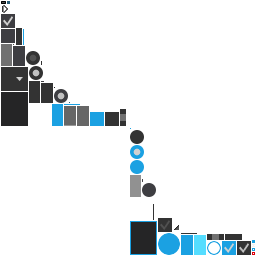
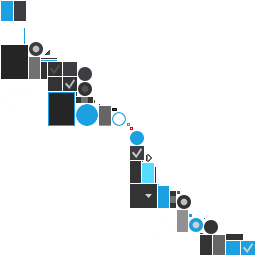
Added VisImageButton

Changed region(s): [[0.0, 0.0, 1.0, 1.0]]

diff --git a/UI/src/pl/kotcrab/vis/ui/widget/VisImageButton.java b/UI/src/pl/kotcrab/vis/ui/widget/VisImageButton.java
@@ -1,0 +1,154 @@
+/*******************************************************************************
+ * Copyright 2014 Pawel Pastuszak
+ *
+ * Licensed under the Apache License, Version 2.0 (the "License");
+ * you may not use this file except in compliance with the License.
+ * You may obtain a copy of the License at
+ *
+ * http://www.apache.org/licenses/LICENSE-2.0
+ *
+ * Unless required by applicable law or agreed to in writing, software
+ * distributed under the License is distributed on an "AS IS" BASIS,
+ * WITHOUT WARRANTIES OR CONDITIONS OF ANY KIND, either express or implied.
+ * See the License for the specific language governing permissions and
+ * limitations under the License.
+ ******************************************************************************/
+
+package pl.kotcrab.vis.ui.widget;
+
+import pl.kotcrab.vis.ui.FocusManager;
+import pl.kotcrab.vis.ui.Focusable;
+import pl.kotcrab.vis.ui.VisUI;
+
+import com.badlogic.gdx.graphics.g2d.Batch;
+import com.badlogic.gdx.scenes.scene2d.InputEvent;
+import com.badlogic.gdx.scenes.scene2d.InputListener;
+import com.badlogic.gdx.scenes.scene2d.ui.Button;
+import com.badlogic.gdx.scenes.scene2d.ui.Cell;
+import com.badlogic.gdx.scenes.scene2d.ui.Image;
+import com.badlogic.gdx.scenes.scene2d.utils.Drawable;
+import com.badlogic.gdx.utils.Scaling;
+
+public class VisImageButton extends Button implements Focusable {
+	private final Image image;
+
+	private VisImageButtonStyle style;
+
+	private boolean drawBorder;
+
+	public VisImageButton (Drawable imageUp) {
+		this(imageUp, null, null);
+	}
+
+	public VisImageButton (Drawable imageUp, Drawable imageDown) {
+		this(imageUp, imageDown, null);
+	}
+
+	public VisImageButton (Drawable imageUp, Drawable imageDown, Drawable imageChecked) {
+		setStyle(VisUI.skin.get(VisImageButtonStyle.class));
+		style.imageUp = imageUp;
+		style.imageDown = imageDown;
+		style.imageChecked = imageChecked;
+
+		image = new Image();
+		image.setScaling(Scaling.fit);
+		add(image);
+		setSize(getPrefWidth(), getPrefHeight());
+
+		addListener(new InputListener() {
+			@Override
+			public boolean touchDown (InputEvent event, float x, float y, int pointer, int button) {
+				if (isDisabled() == false) FocusManager.getFocus(VisImageButton.this);
+				return false;
+			}
+		});
+	}
+
+	@Override
+	public void setStyle (ButtonStyle style) {
+		if (!(style instanceof VisImageButtonStyle)) throw new IllegalArgumentException("style must be an ImageButtonStyle.");
+		super.setStyle(style);
+		this.style = (VisImageButtonStyle)style;
+		if (image != null) updateImage();
+	}
+
+	@Override
+	public VisImageButtonStyle getStyle () {
+		return style;
+	}
+
+	private void updateImage () {
+		Drawable drawable = null;
+		if (isDisabled() && style.imageDisabled != null)
+			drawable = style.imageDisabled;
+		else if (isPressed() && style.imageDown != null)
+			drawable = style.imageDown;
+		else if (isChecked() && style.imageChecked != null)
+			drawable = (style.imageCheckedOver != null && isOver()) ? style.imageCheckedOver : style.imageChecked;
+		else if (isOver() && style.imageOver != null)
+			drawable = style.imageOver;
+		else if (style.imageUp != null) //
+			drawable = style.imageUp;
+		image.setDrawable(drawable);
+	}
+
+	@Override
+	public void draw (Batch batch, float parentAlpha) {
+		updateImage();
+		super.draw(batch, parentAlpha);
+		if (drawBorder) style.focusBorder.draw(batch, getX(), getY(), getWidth(), getHeight());
+	}
+
+	public Image getImage () {
+		return image;
+	}
+
+	public Cell<?> getImageCell () {
+		return getCell(image);
+	}
+
+	/** The style for an image button, see {@link ImageButton}.
+	 * @author Nathan Sweet */
+	static public class VisImageButtonStyle extends ButtonStyle {
+		/** Optional. */
+		public Drawable imageUp, imageDown, imageOver, imageChecked, imageCheckedOver, imageDisabled;
+		public Drawable focusBorder;
+
+		public VisImageButtonStyle () {
+		}
+
+		public VisImageButtonStyle (Drawable up, Drawable down, Drawable checked, Drawable imageUp, Drawable imageDown,
+			Drawable imageChecked) {
+			super(up, down, checked);
+			this.imageUp = imageUp;
+			this.imageDown = imageDown;
+			this.imageChecked = imageChecked;
+		}
+
+		public VisImageButtonStyle (VisImageButtonStyle style) {
+			super(style);
+			this.imageUp = style.imageUp;
+			this.imageDown = style.imageDown;
+			this.imageOver = style.imageOver;
+			this.imageChecked = style.imageChecked;
+			this.imageCheckedOver = style.imageCheckedOver;
+			this.imageDisabled = style.imageDisabled;
+
+			this.focusBorder = style.focusBorder;
+		}
+
+		public VisImageButtonStyle (ButtonStyle style) {
+			super(style);
+		}
+	}
+
+	@Override
+	public void focusLost () {
+		drawBorder = false;
+	}
+
+	@Override
+	public void focusGained () {
+		drawBorder = true;
+	}
+}

diff --git a/UI/src/pl/kotcrab/vis/ui/VisTable.java b/UI/src/pl/kotcrab/vis/ui/VisTable.java
@@ -16,6 +16,8 @@
 
 package pl.kotcrab.vis.ui;
 
+import pl.kotcrab.vis.ui.widget.Separator;
+
 import com.badlogic.gdx.scenes.scene2d.ui.Table;
 
 /** VisTable is normal scene2d.ui {@link Table} that allows to set default vis spacing during creation
@@ -29,6 +31,10 @@ public class VisTable extends Table {
 	public VisTable (boolean setVisDefautls) {
 		super(VisUI.skin);
 		if (setVisDefautls) TableUtils.setSpaceDefaults(this);
+	}
+
+	public void addSeparator () {
+		add(new Separator()).padTop(2).padBottom(2).fill().expand().row();
 	}
 
 }
